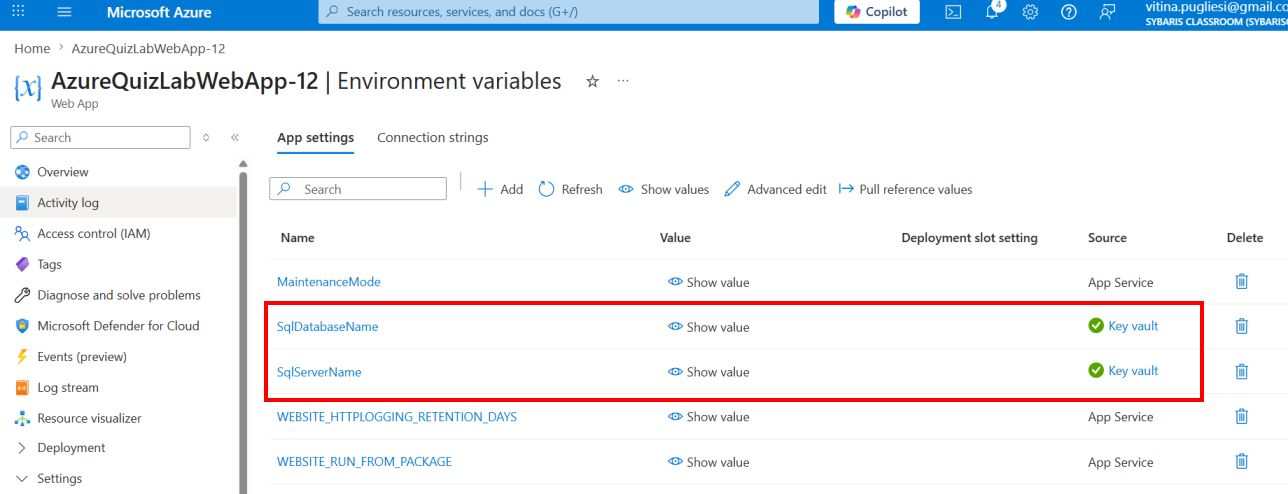
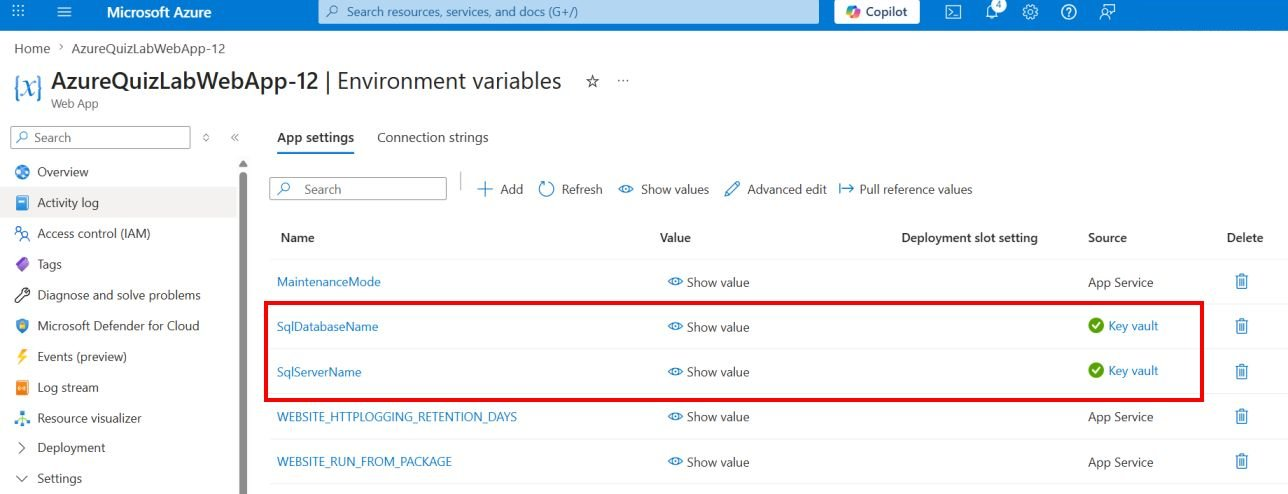
TP5 + images améliorations

Changed region(s): [[0.3727, 0.7895, 0.9317, 0.8198], [0.8696, 0.0, 1.0, 0.0607], [0.2795, 0.7895, 0.3416, 0.8198]]

diff --git a/TP5/Tp5.md b/TP5/Tp5.md
@@ -170,6 +170,8 @@ Dans `appsettings.json`, ajouter en remplaçant l’URL par celle de votre Stora
 
 > 💡 L'URL se trouve dans le portail Azure, dans le Storage Account → **Endpoints → Blob service**.
 
+![Storage Account URL](images/Image7.jpg)
+
 ---
 
 ## ⚙ Étape 6 — Enregistrer le service
